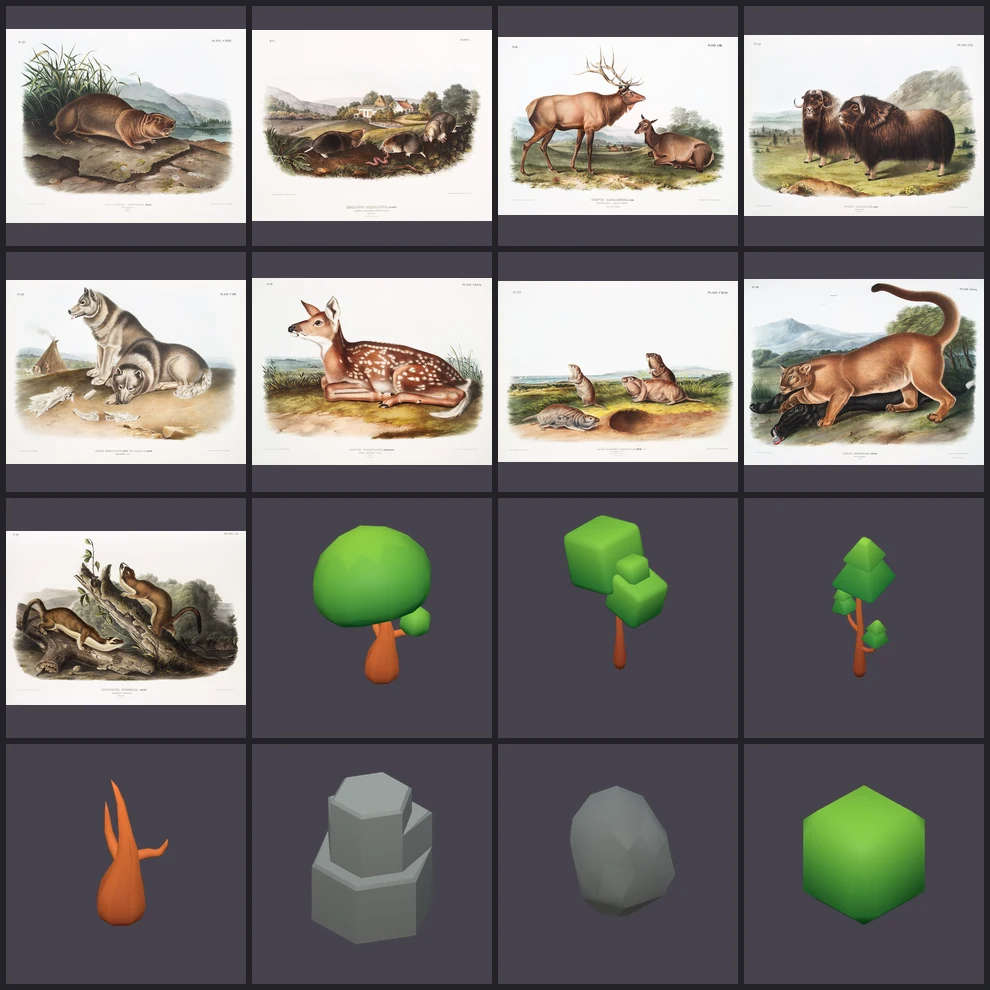
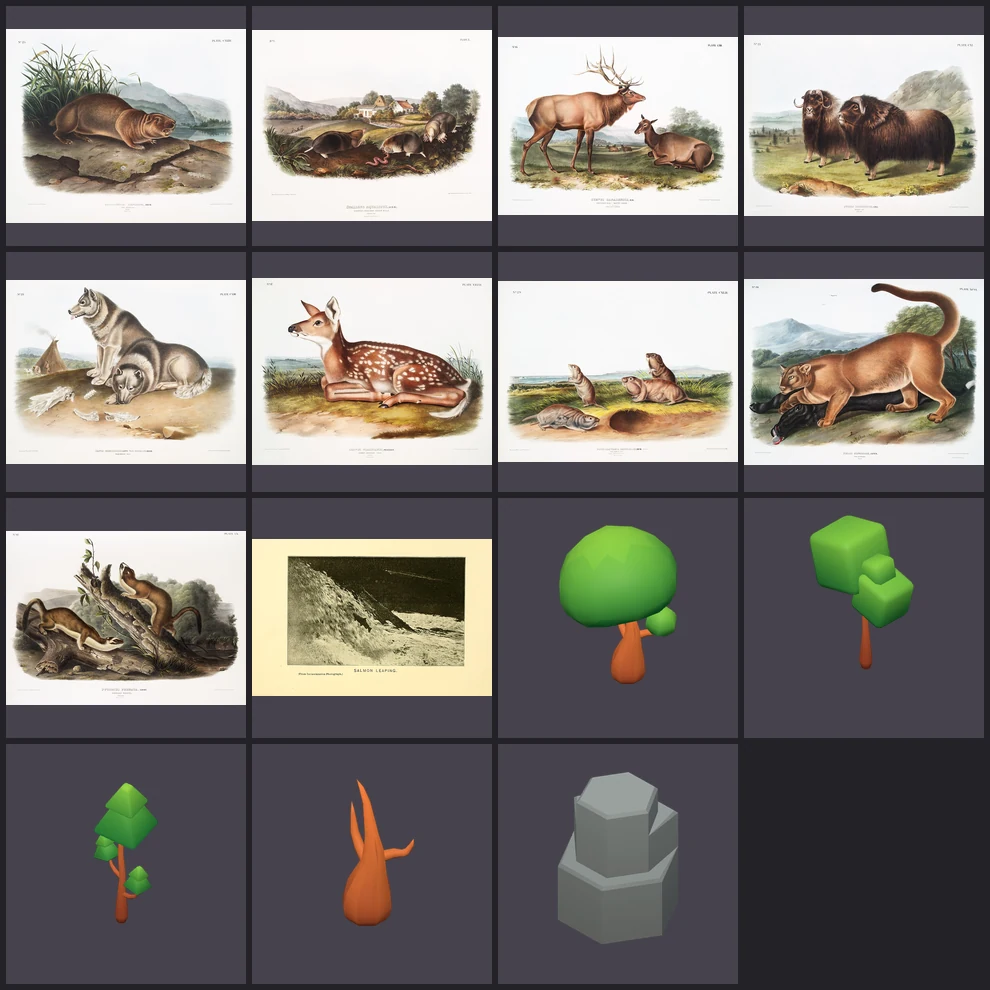
Free art packs: FREE-PACKS.md draft, priority six, parts B and C

diff --git a/games-src/free-packs/part-B.md b/games-src/free-packs/part-B.md
@@ -1,0 +1,30 @@
+# Free art packs, part B (6 games, 2 picks each)
+
+Checked 7 Nov 2026, 22:20 to 22:45 UTC. Every pick was downloaded through the proxy into its own dir under `/tmp/claude-0/s/work/<slug>/<pack>/`, unzipped, and the licence text read. Packs are NOT copied into the repo. Sheets are built from real extracted files (cells upscaled with nearest-neighbour only when tiny).
+
+Coverage method: 6 slot types per game = card faces, tokens/pieces, board/map, portraits, backgrounds, icons/UI. Coverage % = slot types the pack fills in one consistent style / 6 (half-credit where the pack gives only part of a slot). Honest summary: no free pack covers everything; the best practical route is one hero pack per game plus a public-domain illustration set for portraits and backgrounds.
+
+| game | rank | pack name | direct download URL | licence (quoted line) | style | coverage of slots % (which) | why it beats current flat art | sheet path |
+|---|---|---|---|---|---|---|---|---|
+| nebula-aces | 1 | Foozle Void Fleet Pack 1 + Void Main Ship + Void Environment Pack (3 itch pages, same artist and style) | https://foozlecc.itch.io/void-fleet-pack-1 , https://foozlecc.itch.io/void-main-ship , https://foozlecc.itch.io/void-environment-pack (itch2.sh downloads all three, VERIFIED) | Readme.txt: "License: (Creative Commons Zero, CC0) ... This content is free to use and modify for all projects, including commercial projects. Attribution not required." Itch page: "Asset license Creative Commons Zero v1.0 Universal" | Hand-made pixel art, top-down ships with shading, damage states, shields, engines, weapons, projectiles | ~50%: tokens (8 hostile hulls 320 px, player ship in 4 damage states, shields, engines, bullets), background (layered starfield, black hole, big stars), obstacles (asteroid with explode anim), planet. Missing: card faces, portraits, UI frames | Ships have real form, lighting and outlines instead of flat vector blobs; damage and shield layers fit a damage-deck game; one artist, one palette | games-src/free-packs/nebula-aces-sheet.webp |
+| nebula-aces | 2 | Wenrexa HoloUI (free hologram interface, card, panel, button, icon sets) | https://wenrexa.itch.io/holoui (VERIFIED, 48 MB, ~4800 files) | Itch page: "Asset license Creative Commons Zero v1.0 Universal" (the in-zip Readme.txt is only ASCII art, no licence text) | Glowing teal sci-fi hologram UI, vector-clean PNG | ~35%: card frames (Card X4 to X8 portrait frames), UI panels/buttons/bars, 1,800+ weapon/military icons in 7 colours. Missing: ships, board, portraits, backgrounds | Gives upgrade and pilot cards a real frame and the HUD a sci-fi skin; pairs with pick 1 for about 80% of non-portrait slots | same sheet (last 3 cells) |
+| redline-rally | 1 | Kenney Racing Pack (OGA mirror) | https://opengameart.org/sites/default/files/racing-pack.zip (VERIFIED, 443 files) | License.txt: "License (Creative Commons Zero, CC0)" | Glossy flat vector, top-down, 50 car variants, 5 colours, road/grass/barrier tiles | ~35%: tokens (cars, motorbikes, characters), board (modular asphalt, kerb and grass tiles), props (barriers, cones, oil, start lights). Missing: card faces, portraits, backgrounds, icons | Honest: same family as the Kenney art the owner already finds flat. It is still the only complete free top-down track-tile plus car set; use only if the owner accepts the style | games-src/free-packs/redline-rally-sheet.webp |
+| redline-rally | 2 | Racing HUD Asset Pack (Ville Seppanen) | https://villesep.itch.io/racing-hud-kit-free-game-ui-asset-pack (VERIFIED, 27 PNG) | copyright_readme_racing_hud.txt: "released under Creative Commons Attribution 4.0 (CC BY 4.0). You are free to use, modify, and redistribute the assets, including in commercial projects. Attribution is required." | Photoreal chrome dashboard gauges, 2D PNG | ~15%: icons/UI only (tachometer, speedometer, nitrous, temperature, fuel, engine and warning lights, pedals). Can stand in for gear, heat and speed readouts | The only polished, non-flat piece found for this game; makes the heat and gear display look like a real dashboard. Needs credit line in Credits | same sheet (bottom 2 rows) |
+| lantern-dive | 1 | Haeckel "Kunstformen der Natur" plates via Wikimedia Commons (12 plates tested: Discomedusae, Siphonophorae, Cubomedusae, Acanthometra, Hexacoralla, Nudibranchia, Ophiodea, Stephoidea, Trachomedusae, Thalamphora, Peridinea) | https://commons.wikimedia.org/wiki/Category:Kunstformen_der_Natur (e.g. https://commons.wikimedia.org/wiki/File:Haeckel_Discomedusae_8.jpg ; VERIFIED download of 11 plates at 900 px width, full size 2300x3300) | Commons licence field for every plate: "Public domain" (artist died 1919) | Museum-quality hand-coloured lithographs of deep-sea creatures, colour and black-ink variants | ~33%: card/mission art, portraits (creature close-ups, crop from plate), backgrounds (dark plates as table cloth). Missing: tokens, board, icons | A real illustrated look, instantly "deep sea expedition"; no flat clip-art. Crop plates into 1:1 campaign portraits and card backs | games-src/free-packs/lantern-dive-sheet.webp (top 2 rows) |
+| lantern-dive | 2 | Prerendered Underwater Sprites (Bas de Reuver) plus Underwater Diving Pack (ansimuz, extra) | https://opengameart.org/sites/default/files/underwatersprites.zip and https://opengameart.org/sites/default/files/underwater-diving-files.zip (both VERIFIED) | Sprites readme.txt: "You may use these graphics in personal and commercial projects. Credit would be appreciated but is not mandatory." (OGA page tag CC0). Diving pack public-license.txt: "Public domain and free to use on whatever you want, personal or commercial." | 3D-rendered cartoon sprites (submarine, squid, stingray, starfish, mines, gems, coins) and pixel diver/background | ~17% tokens only (submarine, creatures, hazards, gems). Style clash between the two packs | Gives real 3D-lit submarine and creature tokens; weakest pick, cartoon tone does not match Haeckel plates, so use only for tokens | same sheet (bottom 2 rows) |
+| deep-signal | 1 | Haeckel plates via Wikimedia Commons (same set as lantern-dive; map one plate per suit: coral=Hexacoralla, kelp=Nudibranchia/Ophiodea, tide=Discomedusae, amber=Acanthometra, sonar=Stephoidea) | https://commons.wikimedia.org/wiki/Category:Kunstformen_der_Natur (VERIFIED, see lantern-dive row) | Commons licence field: "Public domain" | Hand-coloured lithographs | ~40%: card-face art for 5 suits, task cards, 6 boss/portrait crops, title and table backgrounds. Missing: tokens, icons | Replaces the flat Kenney animal and texture composites with real museum illustration; gives each colour a distinct, recognisable subject | games-src/free-packs/deep-signal-sheet.webp (top row) |
+| deep-signal | 2 | Nautical Playing Cards (fageltomten) | https://fageltomten.itch.io/nautical-playing-cards (VERIFIED, 17 PNG) | Itch page: "You can use these sprites for both personal and commercial projects. You are allowed to modifiy these sprites. Attribution is not necessary but appreciated. Do not redistribute." | 23x35 px pixel cards, green sea palette, 10 card backs, pip icons (anchor, boat, clam, buoy) | ~40%: card faces (52 + jokers, wrong suits, would need recolour), card backs (10), icons (pips). Low resolution | Complete ocean-themed card set with backs; UNCERTAIN fit: tiny pixel size and "Do not redistribute" clause (public site would serve the PNGs), so owner must accept that reading | same sheet (rows 2 to 4) |
+| rampart-and-vine | 1 | Tiny Swords Free Pack (Pixel Frog) | https://pixelfrog-assets.itch.io/tiny-swords (VERIFIED, 410 PNG in free pack) | Itch page: "Feel free to use this asset pack in both personal and commercial projects, modifying the assets as needed. Crediting is not required, but it helps and is always welcome. You may not redistribute, resell, or repackage the assets, even if the files are modified." | Polished chunky pixel art, 5 colour teams | ~70%: followers (pawn, warrior, archer, lancer, monk in 5 colours), buildings (castle, monastery, houses, tower, barracks in 5 colours), terrain (grass/cliff/water tilemaps in 5 colours, trees, bushes, rocks, sheep, gold), 24 portrait avatars, UI (9-slice papers, wood table, banners, buttons, bars, 12 icons), clouds and water backgrounds. Missing: road tile pieces, walled-city tiles | Looks like a shipped commercial game; fills most slots in one style; followers in team colours are exactly what a meeple game needs. Caveat: "may not redistribute" and the games are served as a public site, owner must confirm that embedding in a built game counts as use | games-src/free-packs/rampart-and-vine-sheet.webp |
+| rampart-and-vine | 2 | Kenney Tiny Town (OGA mirror) | https://opengameart.org/sites/default/files/kenney_tiny-town.zip (VERIFIED, 132 tiles) | License.txt: "License: (Creative Commons Zero, CC0)" | 16 px flat pixel tiles | ~35%: board tiles (grass, dirt roads, fences, houses, trees). Missing everything else | CC0 safety fallback for road and field tiles with zero licence worry; plain next to pick 1 | not sheeted (see pick 1 sheet) |
+| sands-of-qamar | 1 | Edmund Dulac, "One Thousand and One Nights" illustrations via Wikimedia Commons | https://commons.wikimedia.org/w/index.php?search=Illustration+by+Edmund+Dulac+from+One+Thousand+and+One+Nights (VERIFIED licence on 10 files, 5 downloaded intact, Commons rate-limited the rest; e.g. File:Illustration_by_Edmund_Dulac_from_One_Thousand_and_One_Nights_01.jpg) | Commons licence field: "Public domain" (artist died 1953, published 1907) | Painted Arabian Nights watercolour plates, 1280 px wide | ~40%: portraits and scene art (crop), title and table backgrounds, card art for djinn and events. Missing: tokens, board tiles, icons | A genuine painted Arabian look instead of flat shapes; strong cover, background and djinn card art | games-src/free-packs/sands-of-qamar-sheet.webp (top) |
+| sands-of-qamar | 2 | game-icons.net (camel, magic lamp, elephant, emerald, scroll, spices, palm, turban, oasis, purse, hood, wheat, skull tested) | https://game-icons.net/icons/ffffff/000000/1x1/delapouite/camel.svg pattern, e.g. .../lorc/magic-lamp.svg (VERIFIED 15 SVG fetched) | game-icons.net/about: "provided under the terms of the Creative Commons 3.0 BY license. It means that you can use them freely as long as you credit the original author in your creation" | One-colour silhouette badges, recolourable (shown gold on brown) | ~30%: icons and goods/resource badges, meeple-role badges. Missing everything else | One consistent badge set for goods, meeples and djinn; crisp at any size; pairs with Dulac art. Attribution required (author per icon: lorc, delapouite) | same sheet (bottom 8 cells) |
+
+## Notes and gaps
+
+- Extra desert option not ranked: Tiny Biomes Desert (aldrin572), https://aldrin572.itch.io/tiny-biomes-desert, LICENSE.txt "License: CC0. Free to use in personal and commercial projects." VERIFIED, but it is only one tileset, props and 3 background layers (~15% coverage).
+- Rejected: Lornn "Fantasy Desert Backgrounds" (page says "Generated in Midjourney", AI); 40 Game Backgrounds #1 (CC0 but photographs); Damdan "Dive" (CC-BY-NC); Ravenmore Space Rage (paid).
+- Met Open Access: the search endpoint answered but every `objects/<id>` lookup returned 404 from this machine, so no Met item could be verified. UNVERIFIED, none picked.
+- Wikimedia Commons rate-limits this machine's IP (HTTP 429), so Dulac downloads were partial; licence metadata was read for all of them from the API.
+- GitHub (game-icons repo tarball) is blocked here; icons were fetched one by one from game-icons.net instead.
+- Style warning: the strongest-looking packs (Tiny Swords, Foozle) are pixel art. If the owner wants painted or vector, Haeckel and Dulac plates are the only free option found for card, portrait and background art, and no free pack was found that gives a complete painted token or board set for racing or space.
+- Two licences carry a no-redistribution clause (Tiny Swords, Nautical Playing Cards): these allow use in a game but the games ship as public files, so get the owner's decision before wiring them.

diff --git a/games-src/FREE-PACKS.md b/games-src/FREE-PACKS.md
@@ -1,0 +1,43 @@
+# Free art packs: the best 2 per game (research W410)
+
+Checked 7 Nov 2026 (UTC). Owner verdict: the current Kenney-based flat art is "sloppy, looks like HTML". This file lists, per game, the two best free sources that
+could make it look like a polished commercial digital board game. Every pick was downloaded through the container proxy, its licence read, and its images put on a
+contact sheet (`games-src/free-packs/<slug>-sheet.webp`, 4x4, real images or renders). The packs themselves are NOT in the repo.
+
+Reading guide
+- **Coverage %** is a rough share of the game's slot list that the pick can fill in one consistent style (slot lists: `free-art/` stems and `ASSETS.md`).
+  No free pack covers a whole game. The honest plan for each game is pick 1 + pick 2 together.
+- **3D packs (KayKit, Quaternius)** are CC0 models, not flat sprites. They need a render-to-PNG step (isometric camera, transparent background). A working
+  three.js + headless Chromium renderer was used for the sheets; it is not yet in the repo.
+- **Public-domain plates and museum images** are real paintings and engravings. They give a premium "printed card" look, but need crop, colour grade and a frame.
+- Licences: CC0 and public domain need no credit. CC BY needs credit. Nothing is NC, ND or SA. Nothing is AI-generated or from a tabletop-simulator workshop.
+- Rejected after checking: "Free CC0 Dungeon Backgrounds Pack" (The Outlander): the images are in a generative-AI house style, so excluded. Wikimedia Commons
+  rate-limited the proxy for most of the run, so some Commons picks have fewer verified files than planned.
+
+## Games the owner rejected
+
+| Game | Rank | Pack | Direct download / source | Licence | Style | Coverage | Why it beats current art | Sheet |
+|---|---|---|---|---|---|---|---|---|
+| vinegrave | 1 | Met Open Access, Pre-Columbian / Maya objects (jade, idols, figures, pottery) | https://metmuseum.github.io/ (keyless API `collectionapi.metmuseum.org/public/collection/v1.1/search?q=Maya&isPublicDomain=true`) | CC0 (Met Open Access, `isPublicDomain: true` per object) | Real museum photographs on grey | ~30% (artifact cards, idols, relics, gold) | Real objects read as treasure; the flat vector props read as clip art | [sheet](free-packs/vinegrave-sheet.webp) |
+| vinegrave | 2 | Catherwood, "Views of Ancient Monuments in Central America" engravings (Wikimedia Commons) | https://commons.wikimedia.org/wiki/Category:Views_of_Ancient_Monuments_in_Central_America,_Chiapas_and_Yucatan | Public domain (Commons licence field, 1844 prints) | Sepia lithographs: ruins, stelae, cave ladder | ~8% alone (ruin sites, temples, backgrounds, map flavour); ~35% with pick 1 | Gives the ruin sites and bg-title/map a period expedition look | same sheet |
+| vale-of-banners | 1 | KayKit Medieval Hexagon Pack 1.0 (itch) | https://kaylousberg.itch.io/kaykit-medieval-hexagon | CC0: "License: (Creative Commons Zero, CC0) ... free to use in personal, educational and commercial projects" | Polished low-poly 3D, 221 models (windmill, watermill, market, blacksmith, church, tavern, mine, lumbermill, well, homes, castle, props) rendered isometric | ~35% (8 buildings, tile and pasture scenery, goods props, banners via colour variants) | Real lit 3D renders in 5 colours replace flat tiles; the 8 building kinds exist one for one | [sheet](free-packs/vale-of-banners-sheet.webp) |
+| vale-of-banners | 2 | Met Open Access tapestries and Books of Hours (harvest, months, manuscript leaves) | https://metmuseum.github.io/ (search "harvest tapestry", "book of hours") | CC0 (Met Open Access) | Woven and illuminated medieval art | ~15% alone (26 lore tiles, backgrounds, banners); ~45% with pick 1 | Lore tiles and bg-title/map get a hand-made medieval feel | same sheet (last 4 cells) |
+| wildmark | 1 | Audubon "Viviparous Quadrupeds of North America" plates + "American Fishes" salmon plate (Commons) | https://commons.wikimedia.org/wiki/Category:The_Viviparous_Quadrupeds_of_North_America | Public domain (Commons licence field; 1845 plates) | Hand-coloured natural-history lithographs: elk, deer, cougar, wolf-dog, musk ox; salmon plate | ~50% (animal cards, animal portraits and tokens by cropping); bear, fox and hawk plates exist in the same books but only elk, deer, cougar, dog and salmon were downloaded in this run | Real animal art instead of recoloured cartoon animals | [sheet](free-packs/wildmark-sheet.webp) |
+| wildmark | 2 | KayKit Forest Nature Pack 1.0 (itch) | https://kaylousberg.itch.io/kaykit-forest | CC0 (License.txt: "License: (Creative Commons Zero, CC0)") | Low-poly 3D trees, bushes, rocks, grass | ~12% (5 terrain textures and hex props, table scenery) | Habitat tiles with real trees and rocks | same sheet (last 6 cells) |
+| emberclimb | 1 | game-icons.net, full PNG archive (4,181 icons) | https://game-icons.net/archives/png/zip/ffffff/000000/game-icons.net.png.zip | CC BY 3.0, credit authors ("Icons made by {author}. Available on https://game-icons.net"); some CC0 | One bold monochrome silhouette style, recolourable | ~58% (96 class cards, 19 relics, 9 potions, 6 intents, status icons, nodes) | One consistent glyph language on dark card frames; looks like a shipped deck-builder | [sheet](free-packs/emberclimb-sheet.webp) (first 8 cells) |
+| emberclimb | 2 | KayKit Adventurers 2.0 + Skeletons 1.1 (itch) | https://kaylousberg.itch.io/kaykit-adventurers , https://kaylousberg.itch.io/kaykit-skeletons | CC0 (both License.txt files) | Chunky 3D chibi heroes (knight, mage, rogue, barbarian, ranger), skeleton enemies, 30+ weapons and props | ~8% (4 hero portraits, 4 enemy sprites, weapon art); no robot hero, no backgrounds | Gives finished hero and enemy portraits that match each other | same sheet (last 8 cells) |
+| perch-and-plume | 1 | Audubon "Birds of America" plates (Commons, Havell edition) | https://commons.wikimedia.org/wiki/Category:Birds_of_America_(Audubon) (search "Audubon Havell Birds of America plate") | Public domain (Commons licence field, 1827-38) | Hand-coloured copperplate bird portraits on cream paper | ~45% (bird cards and portraits for real species; invented species need the closest real match); nests, eggs, food not covered | Real birds replace the single parametric cartoon bird | [sheet](free-packs/perch-and-plume-sheet.webp) |
+| perch-and-plume | 2 | Naumann "Naturgeschichte der Vogel Deutschlands" plates (Commons) | https://commons.wikimedia.org/wiki/Category:Naturgeschichte_der_V%C3%B6gel_Deutschlands | Public domain (Commons licence field) | Colour lithographs, European species | UNVERIFIED beyond 1 downloaded plate (rate limit); estimated ~30% | Adds Eurasian wetland and grassland species | not separate |
+| stitchwise | 1 | Met Open Access American and European quilts | https://metmuseum.github.io/ (search "quilt") | CC0 (Met Open Access) | Photographed antique quilts: hexagon, star, appliqué | ~35% (33 fabric slots, quilt art, backgrounds) | Real cloth beats generated flat swatches | [sheet](free-packs/stitchwise-sheet.webp) (first 8 cells) |
+| stitchwise | 2 | Met Open Access William Morris textile and wallpaper designs | https://metmuseum.github.io/ (search "William Morris textile") | CC0 (Met Open Access) | Block-printed botanical patterns, repeatable | ~25% alone (fabrics, torn edges, bg); ~55% with pick 1 | Seamless-looking, richly coloured fabric designs | same sheet (last 8 cells) |
+
+## Other games (details in `free-packs/part-A.md`, `part-B.md`, `part-C.md`)
+
+Per-game rows (two picks, download link, licence quote, coverage, sheet) are in the part files. Best pick per game:
+
+PARTS_SUMMARY
+
+## Needs an owner decision
+
+- **Pixel Frog "Tiny Swords" (picked for rampart-and-vine):** licence allows personal and commercial use but says "You may not redistribute, resell, or repackage". The games ship as public files, so it needs a yes before use. The CC0 alternative is Kenney Tiny Town (same flat style the owner rejected).
+- **CC BY packs (game-icons.net, a racing HUD kit):** need a credits line in the game.
